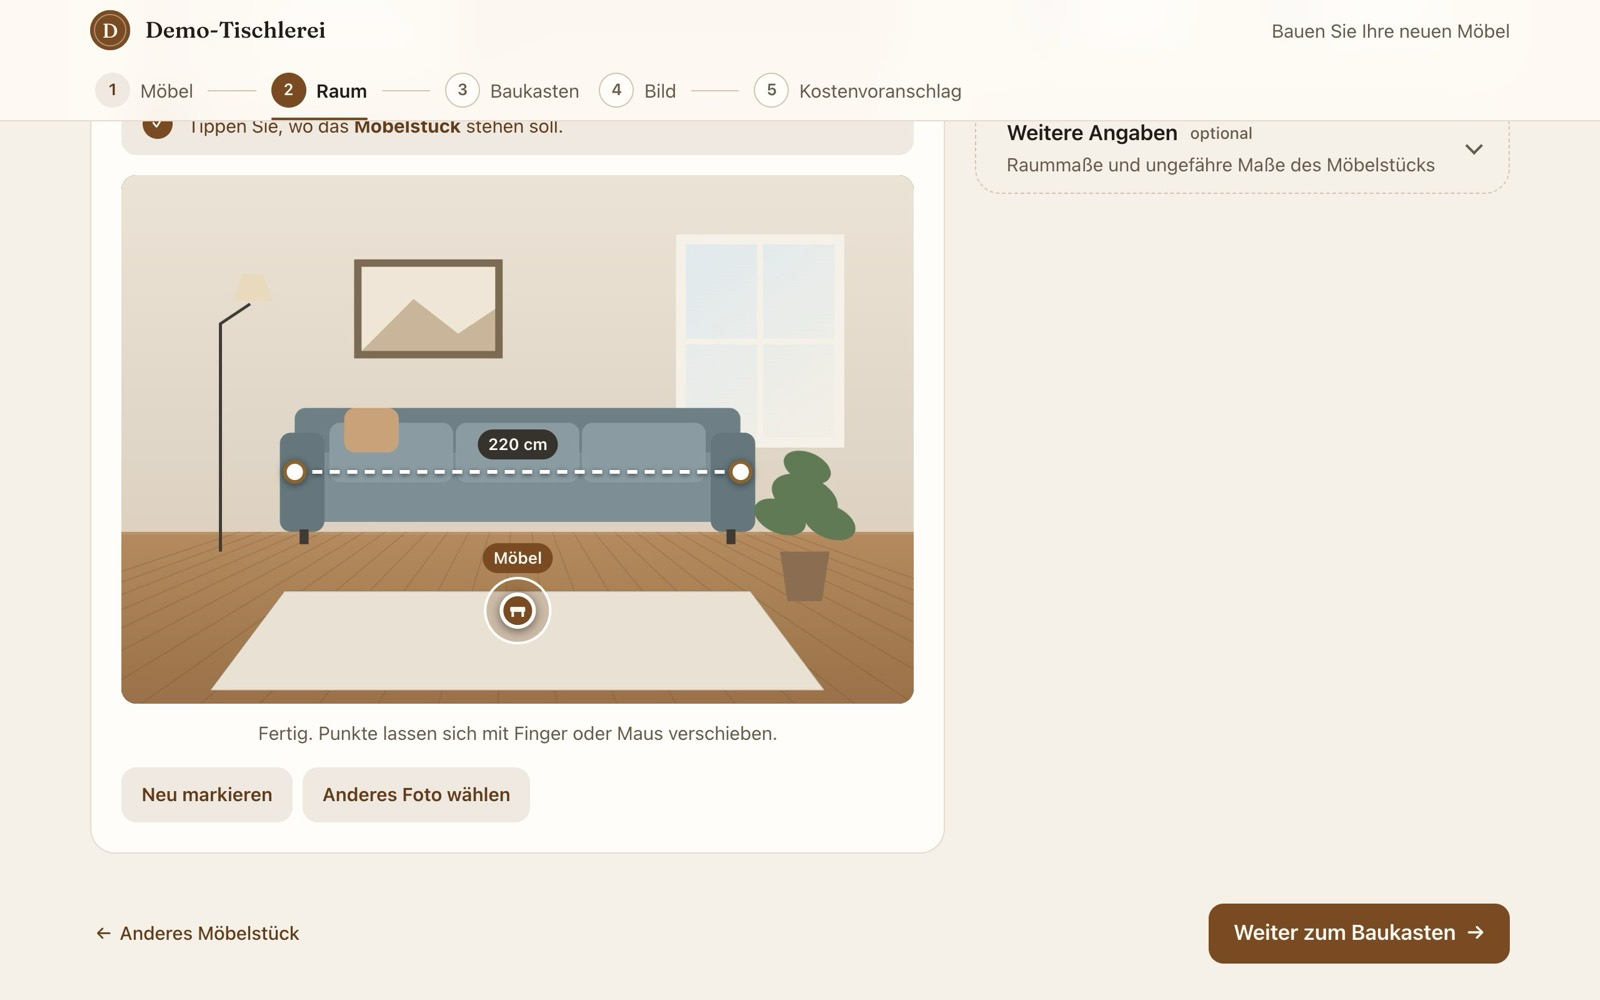
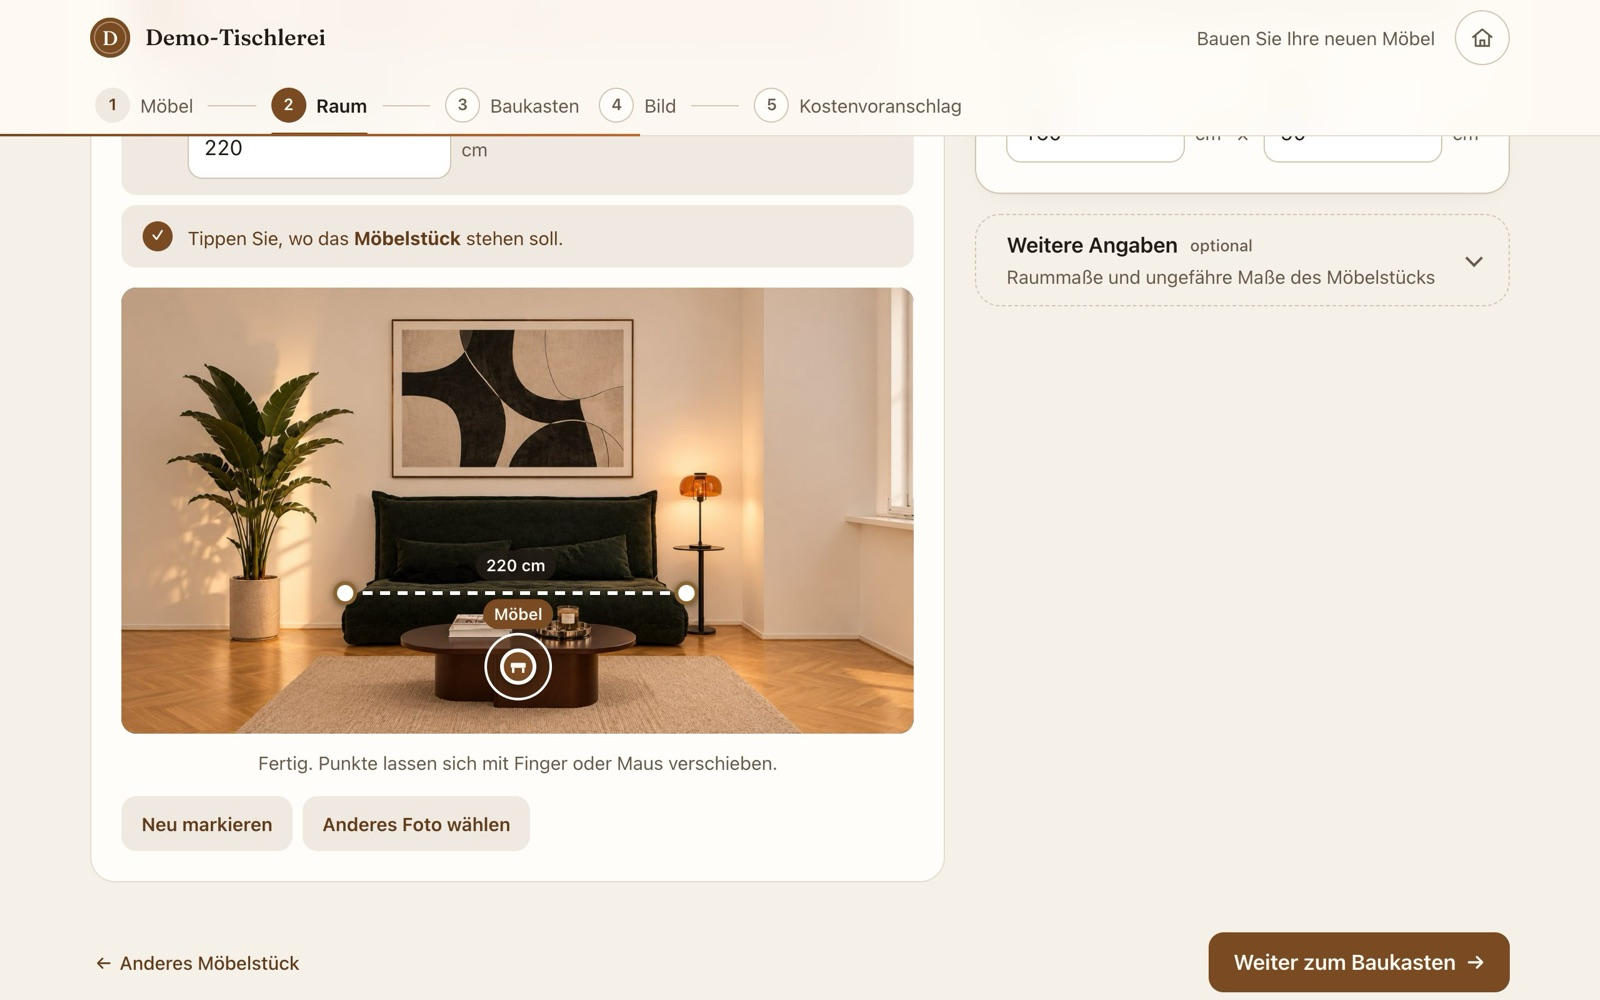
Landingpage: Schritt Raum zeigt echtes Beispielfoto statt Zeichnung

diff --git a/tischlereien.html b/tischlereien.html
@@ -111,7 +111,7 @@
             </div>
           </li>
           <li class="schritt">
-            <figure class="bild" data-bewegung="rechts"><img src="assets/landing/schritt-raum.jpg" width="1600" height="1000" loading="lazy" alt="Raumfoto mit markiertem Sofa als Maßstab und markiertem Standort"></figure>
+            <figure class="bild" data-bewegung="rechts"><img src="assets/landing/schritt-raum.jpg" width="1600" height="1000" loading="lazy" alt="Raumfoto eines Wohnzimmers mit markiertem Sofa (220 cm) als Maßstab und markiertem Standort für das Möbel"></figure>
             <div class="schritt-text" data-bewegung="links">
               <p class="schritt-nr">Schritt 2</p>
               <h3>Raum fotografieren</h3>
